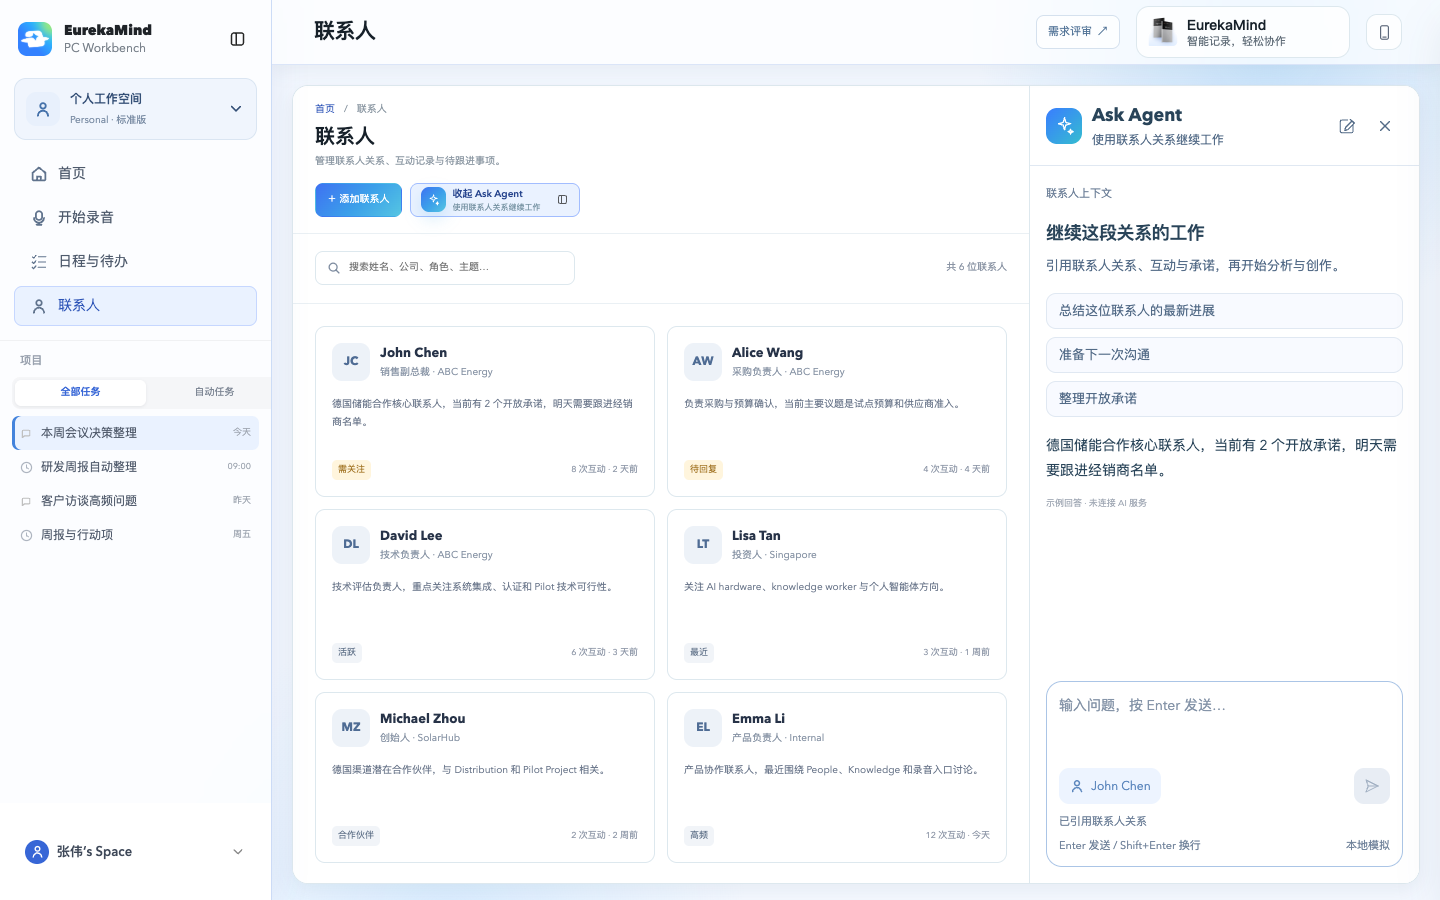
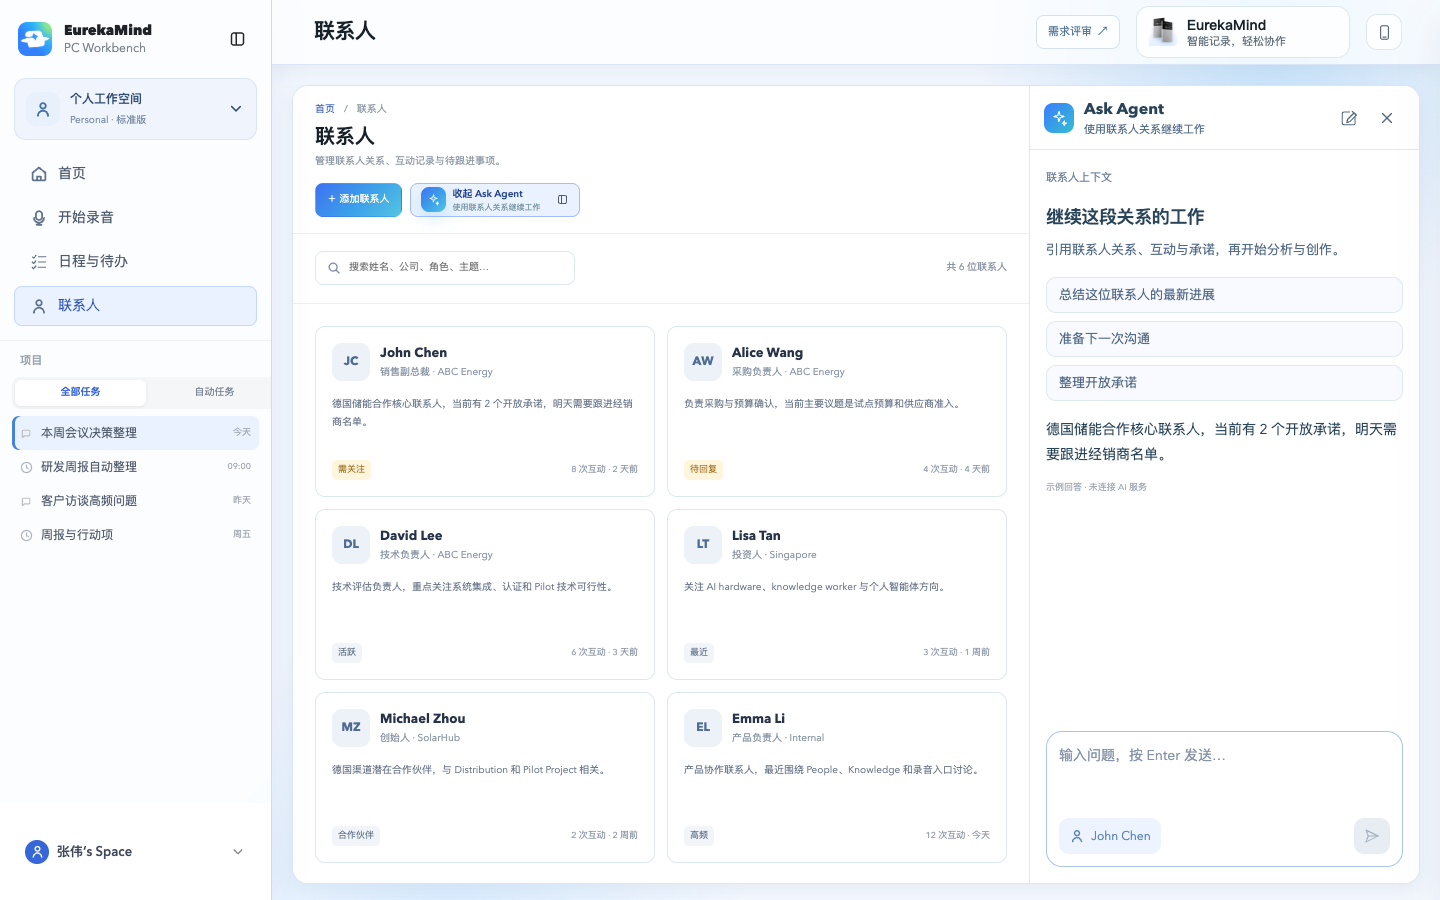
Compact Agent headers and simplify composer footers

diff --git a/src/prototype/one-to-one-reference/assets/agent-panel.css b/src/prototype/one-to-one-reference/assets/agent-panel.css
@@ -1,11 +1,11 @@
 /* Shared Agent presentation. Contexts, controls and handlers remain owned by each page. */
 :is(#xiaozhi-rail,#pa-agent,#contacts-xiaozhi-rail,.ws-agent,#knowledge-xiaozhi-panel){--agent-ink:#294459;--agent-copy:#536b87;--agent-meta:#71839b;--agent-line:#e0e8f2;--agent-accent:#397ac6;}
-:is(#xiaozhi-rail,#pa-agent,#contacts-xiaozhi-rail,.ws-agent,#knowledge-xiaozhi-panel) :is(.xiaozhi-head,header:not(.agent-session-head)) {box-sizing:border-box;min-height:80px;padding:16px;gap:8px;flex-shrink:0;border-bottom:1px solid var(--agent-line);}
+:is(#xiaozhi-rail,#pa-agent,#contacts-xiaozhi-rail,.ws-agent,#knowledge-xiaozhi-panel) :is(.xiaozhi-head,header:not(.agent-session-head)) {box-sizing:border-box;min-height:64px;padding:10px 14px;gap:8px;flex-shrink:0;border-bottom:1px solid var(--agent-line);}
 :is(#xiaozhi-rail,#pa-agent,#contacts-xiaozhi-rail,.ws-agent,#knowledge-xiaozhi-panel) :is(.xiaozhi-identity,.pa-agent-title){min-width:0;gap:10px;}
-:is(#xiaozhi-rail,#pa-agent,#contacts-xiaozhi-rail,.ws-agent,#knowledge-xiaozhi-panel) :is(.xiaozhi-mark,.ws-agent-mark){width:36px;height:36px;min-width:36px;border-radius:11px;box-shadow:none;background:linear-gradient(135deg,#397dff,#35bdd0);}
-:is(#xiaozhi-rail,#pa-agent,#contacts-xiaozhi-rail,.ws-agent,#knowledge-xiaozhi-panel) :is(.xiaozhi-mark,.ws-agent-mark) svg{width:21px;height:21px;}
-:is(#xiaozhi-rail,#pa-agent,#contacts-xiaozhi-rail,.ws-agent,#knowledge-xiaozhi-panel) h2{margin:0;color:var(--agent-ink);font-size:18px;line-height:25px;font-weight:650;}
-:is(#xiaozhi-rail,#pa-agent,#contacts-xiaozhi-rail,.ws-agent,#knowledge-xiaozhi-panel) :is(.xiaozhi-head,header:not(.agent-session-head)) :is(p,small){display:block;margin:3px 0 0;font-size:12px;line-height:18px;color:var(--agent-copy);}
+:is(#xiaozhi-rail,#pa-agent,#contacts-xiaozhi-rail,.ws-agent,#knowledge-xiaozhi-panel) :is(.xiaozhi-mark,.ws-agent-mark){width:30px;height:30px;min-width:30px;border-radius:9px;box-shadow:none;background:linear-gradient(135deg,#397dff,#35bdd0);}
+:is(#xiaozhi-rail,#pa-agent,#contacts-xiaozhi-rail,.ws-agent,#knowledge-xiaozhi-panel) :is(.xiaozhi-mark,.ws-agent-mark) svg{width:18px;height:18px;}
+:is(#xiaozhi-rail,#pa-agent,#contacts-xiaozhi-rail,.ws-agent,#knowledge-xiaozhi-panel) h2{margin:0;color:var(--agent-ink);font-size:16px;line-height:22px;font-weight:650;}
+:is(#xiaozhi-rail,#pa-agent,#contacts-xiaozhi-rail,.ws-agent,#knowledge-xiaozhi-panel) :is(.xiaozhi-head,header:not(.agent-session-head)) :is(p,small){display:block;margin:2px 0 0;font-size:11px;line-height:16px;color:var(--agent-copy);}
 :is(#xiaozhi-rail,#pa-agent,#contacts-xiaozhi-rail,.ws-agent,#knowledge-xiaozhi-panel) :is(.xiaozhi-head-actions,.agent-head-actions){display:flex;flex-shrink:0;gap:2px;}
 :is(#xiaozhi-rail,#pa-agent,#contacts-xiaozhi-rail,.ws-agent,#knowledge-xiaozhi-panel) :is(.xiaozhi-head-actions,.agent-head-actions) button{width:36px;height:36px;min-height:36px;padding:8px;border:0;border-radius:9px;background:transparent;color:var(--agent-copy);}
 :is(#xiaozhi-rail,#pa-agent,#contacts-xiaozhi-rail,.ws-agent,#knowledge-xiaozhi-panel) :is(.xiaozhi-head-actions,.agent-head-actions) svg{width:18px;height:18px;}
@@ -44,7 +44,7 @@
 #agent-history-messages{scroll-padding:12px 0;}
 #xiaozhi-rail.history-mode{height:calc(100dvh - var(--agent-top,77px) - 16px)!important;}
 @media(max-height:700px){
- :is(#xiaozhi-rail,#pa-agent,#contacts-xiaozhi-rail,.ws-agent,#knowledge-xiaozhi-panel) :is(.xiaozhi-head,header:not(.agent-session-head)){min-height:68px;padding:10px 16px;}
+ :is(#xiaozhi-rail,#pa-agent,#contacts-xiaozhi-rail,.ws-agent,#knowledge-xiaozhi-panel) :is(.xiaozhi-head,header:not(.agent-session-head)){min-height:64px;padding:10px 14px;}
  :is(#xiaozhi-rail,#pa-agent,#contacts-xiaozhi-rail,.ws-agent,#knowledge-xiaozhi-panel) :is(.xiaozhi-composer,.ws-composer,#pa-agent-prompt) textarea{height:48px;min-height:48px;}
 }
 :is(#xiaozhi-rail,#pa-agent,.ws-agent) :is(.agent-tool-button,.pa-tool,.ws-tool):is(.selected,[aria-pressed="true"],[aria-expanded="true"]){background:#edf4ff;border-color:#b9d1ef;color:#3268b2;}
@@ -59,9 +59,13 @@
 :is(#xiaozhi-rail,#pa-agent,#contacts-xiaozhi-rail,.ws-agent,#knowledge-xiaozhi-panel) :is(.agent-composer-toolbar,.pa-composer-tools,.ws-composer-tools,.xiaozhi-composer-foot){flex-wrap:nowrap;}
 :is(#xiaozhi-rail,#pa-agent,#contacts-xiaozhi-rail,.ws-agent,#knowledge-xiaozhi-panel) :is(.agent-tool-button,.pa-tool,.ws-tool,.xiaozhi-send,.pa-composer-tools>[type=submit],.ws-composer-tools>[type=submit]){flex-shrink:0;}
 @media(max-width:1280px),(max-height:760px){
- :is(#xiaozhi-rail,#pa-agent,#contacts-xiaozhi-rail,.ws-agent,#knowledge-xiaozhi-panel) :is(.xiaozhi-head,header:not(.agent-session-head)){min-height:68px;padding:10px 14px;}
+ :is(#xiaozhi-rail,#pa-agent,#contacts-xiaozhi-rail,.ws-agent,#knowledge-xiaozhi-panel) :is(.xiaozhi-head,header:not(.agent-session-head)){min-height:64px;padding:10px 14px;}
  :is(#xiaozhi-rail,#contacts-xiaozhi-rail,#knowledge-xiaozhi-panel) .xiaozhi-body{padding:12px;gap:12px;}
  :is(#pa-agent,.ws-agent) :is(.pa-agent-body,.ws-agent-scroll){padding:12px;}
  :is(#pa-agent,.ws-agent) :is(.ws-composer,#pa-agent-prompt){margin:0 12px 12px;}
  :is(#xiaozhi-rail,#pa-agent,#contacts-xiaozhi-rail,.ws-agent,#knowledge-xiaozhi-panel) :is(.xiaozhi-composer,.ws-composer,#pa-agent-prompt) textarea{height:48px;min-height:48px;}
 }
+
+/* Keep the composer focused on input and actions; scope stays available to its accessibility description. */
+:is(#xiaozhi-rail,#pa-agent,#contacts-xiaozhi-rail,.ws-agent,#knowledge-xiaozhi-panel) :is(.agent-context-hint,#pa-agent-scope,#ws-composer-hint,.agent-composer-caption,.pa-composer-caption,.ws-composer-caption,.xiaozhi-composer-foot>span){display:none;}
+:is(#xiaozhi-rail,#pa-agent,#contacts-xiaozhi-rail,.ws-agent,#knowledge-xiaozhi-panel) :is(.agent-composer-toolbar,.pa-composer-tools,.ws-composer-tools,.xiaozhi-composer-foot){margin-bottom:0;}

diff --git a/tests/e2e/agent-panel.spec.ts b/tests/e2e/agent-panel.spec.ts
@@ -5,6 +5,7 @@ async function inspect(page:Page,selector:string,name:string,width:number,height
  await page.setViewportSize({width,height});const rail=page.locator(selector);await expect(rail).toBeVisible();const input=rail.locator('textarea').first();await input.focus();
  expect(await input.evaluate(el=>getComputedStyle(el).boxShadow)).toBe('none');expect(await input.evaluate(el=>getComputedStyle(el).outlineStyle)).toBe('none');
  expect(await input.evaluate(el=>getComputedStyle(el).fontSize)).toBe('14px');
+ await expect(rail.locator(".agent-composer-caption,.pa-composer-caption,.ws-composer-caption").first()).toBeHidden();expect(await rail.locator("h2").first().evaluate(el=>getComputedStyle(el).fontSize)).toBe("16px");
  const box=(await input.boundingBox())!;expect(box.y).toBeGreaterThan(0);expect(box.y+box.height).toBeLessThan(height);
  await expect(rail.getByRole('button',{name:'新建任务',exact:true})).toBeInViewport();
  expect(await page.evaluate(()=>document.documentElement.scrollWidth)).toBeLessThanOrEqual(width+1);

diff --git a/src/prototype/one-to-one-reference/team-only-app.html b/src/prototype/one-to-one-reference/team-only-app.html
@@ -5346,6 +5346,6 @@
 <script src="assets/personal-action-popup.js?v=1"></script>
 <link rel="stylesheet" href="assets/agent-resize.css?v=1">
 <script src="assets/agent-resize.js?v=2"></script>
-<link rel="stylesheet" href="assets/agent-panel.css?v=1">
+<link rel="stylesheet" href="assets/agent-panel.css?v=2">
 </body>
 </html>

diff --git a/README.md b/README.md
@@ -99,3 +99,5 @@ EurekaMind 独立采用 Team Credits 共享池：所有成员的 Agent 会话及
 团队订阅的席位用量下方提供主按钮「增加席位」，默认新增一席并沿用确认费用与模拟支付流程；「管理席位」保留减席等操作。Credits 的购买按钮移至可用余额下方。空间设置卡片随主内容区展开，名称/地区宽屏双列、窄屏单列，退出说明与按钮同步自适应。入口和响应式回归：`tests/e2e/team-management-entry.spec.ts`。
 
 Agent 面板共享 `assets/agent-panel.css`：统一个人首页、历史、日程与待办、联系人及团队的标题、消息、推荐提问和输入区。全部移除快速/深度模式切换，工具和发送保持同一行，小尺寸电脑采用紧凑布局。联系人移除双重焦点边框，历史首次打开从消息开头阅读。回归：`tests/e2e/agent-panel.spec.ts`。
+
+Agent 标题栏进一步收紧为 64px，标题 16px、描述 11px；个人版和团队版均移除输入区底部的引用说明、快捷键提示及模拟文字占位，发送快捷键与引用能力保持。
